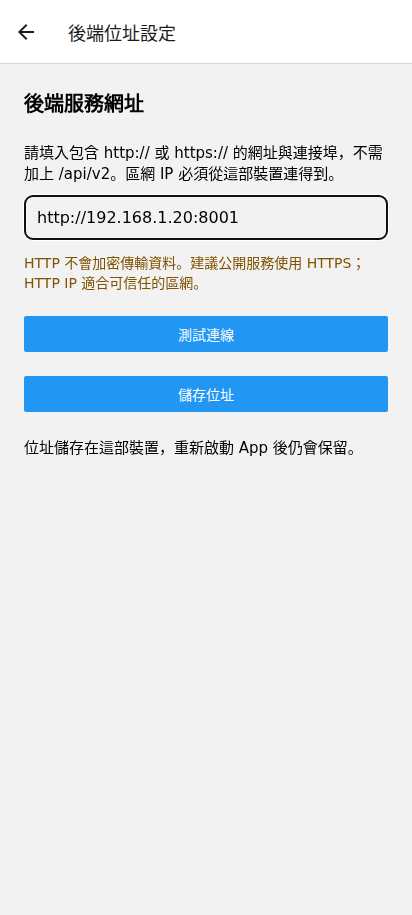
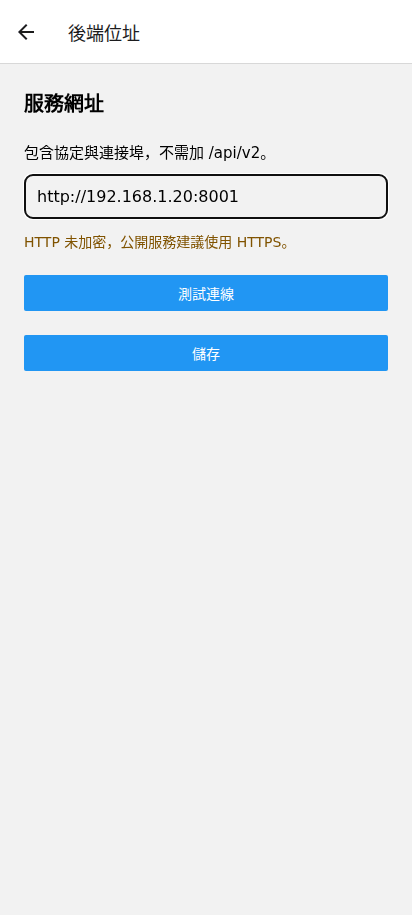
feat(release): simplify backend settings for v2.3.0

Changed region(s): [[0.0583, 0.153, 0.9612, 0.5202], [0.0583, 0.0918, 0.3495, 0.1224], [0.3495, 0.0306, 0.4369, 0.0612]]

diff --git a/src/BackendSettings.js b/src/BackendSettings.js
@@ -8,13 +8,14 @@ const { normalizeBackendUrl } = require('./utils/backendSettings.cjs');
 const { getBackendStatus } = require('./utils/apiContract.cjs');
 const LAN_BACKEND_EXAMPLE = 'http://192.168.1.20:8001'; // NOSONAR: User-approved HTTP LAN example; the form explains unencrypted transport.
 
-export default function BackendSettingsScreen({ navigation }) {
+export default function BackendSettingsScreen() {
   const { t } = useTranslation();
   const { url, saveUrl, loadFailed } = useBackend();
   const [draft, setDraft] = useState(url);
   const [busy, setBusy] = useState(false);
   const [status, setStatus] = useState('');
   const [error, setError] = useState('');
+  const [saved, setSaved] = useState(false);
 
   function validatedUrl() {
     try { return normalizeBackendUrl(draft); } catch {
@@ -43,7 +44,7 @@ export default function BackendSettingsScreen({ navigation }) {
     setBusy(true);
     try {
       await saveUrl(candidate);
-      navigation.goBack();
+      setSaved(true);
     } catch {
       setError(t('backend.saveFailed'));
     } finally { setBusy(false); }
@@ -57,13 +58,13 @@ export default function BackendSettingsScreen({ navigation }) {
       <TextInput style={styles.input} value={draft} editable={!busy}
         accessibilityLabel={t('backend.label')} autoCapitalize="none" autoCorrect={false}
         keyboardType="url" placeholder={LAN_BACKEND_EXAMPLE}
-        onChangeText={(value) => { setDraft(value); setStatus(''); setError(''); }} />
+        onChangeText={(value) => { setDraft(value); setStatus(''); setError(''); setSaved(false); }} />
       {error ? <Text accessibilityRole="alert" style={styles.warning}>{error}</Text> : null}
       <Text style={styles.warning}>{t('backend.httpNotice')}</Text>
       <View style={styles.button}><Button title={t('backend.test')} disabled={busy} onPress={testConnection} /></View>
       {status ? <Text accessibilityLiveRegion="polite">{t(`calc.connection.${status}`)}</Text> : null}
       <View style={styles.button}><Button title={t('backend.save')} disabled={busy} onPress={save} /></View>
-      <Text style={styles.hint}>{t('backend.savedLocally')}</Text>
+      {saved ? <Text accessibilityLiveRegion="polite">{t('backend.saved')}</Text> : null}
     </ScrollView>
   );
 }

diff --git a/README.md b/README.md
@@ -1,6 +1,6 @@
 # WaterMirror
 
-[![License](https://img.shields.io/badge/license-Apache_2.0-blue.svg)](LICENSE) [![Expo](https://img.shields.io/badge/Expo-57.0.26-brightgreen.svg)](https://expo.dev) [![Expo app version](https://img.shields.io/badge/Expo%20app%20version-2.2.2-brightgreen.svg)](app.json) [![CI](https://github.com/KageRyo/WaterMirror/actions/workflows/ci.yml/badge.svg)](https://github.com/KageRyo/WaterMirror/actions/workflows/ci.yml)
+[![License](https://img.shields.io/badge/license-Apache_2.0-blue.svg)](LICENSE) [![Expo](https://img.shields.io/badge/Expo-57.0.26-brightgreen.svg)](https://expo.dev) [![Expo app version](https://img.shields.io/badge/Expo%20app%20version-2.3.0-brightgreen.svg)](app.json) [![CI](https://github.com/KageRyo/WaterMirror/actions/workflows/ci.yml/badge.svg)](https://github.com/KageRyo/WaterMirror/actions/workflows/ci.yml)
 
 WaterMirror is a cross-platform mobile frontend for WQI5-based current-state water quality assessment.
 
